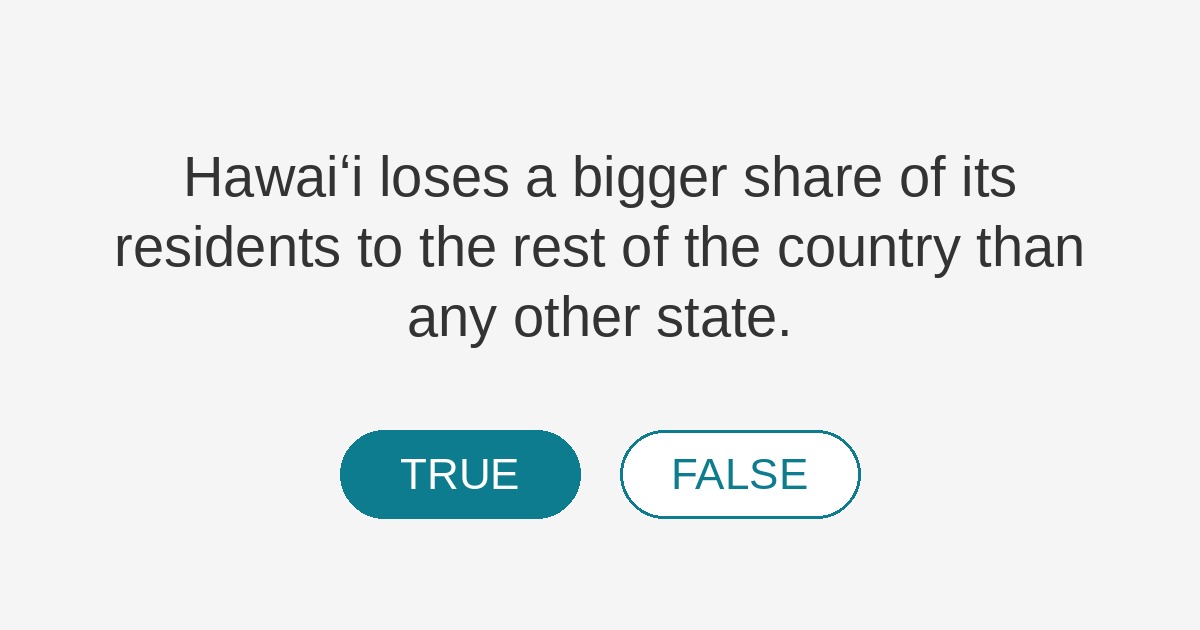
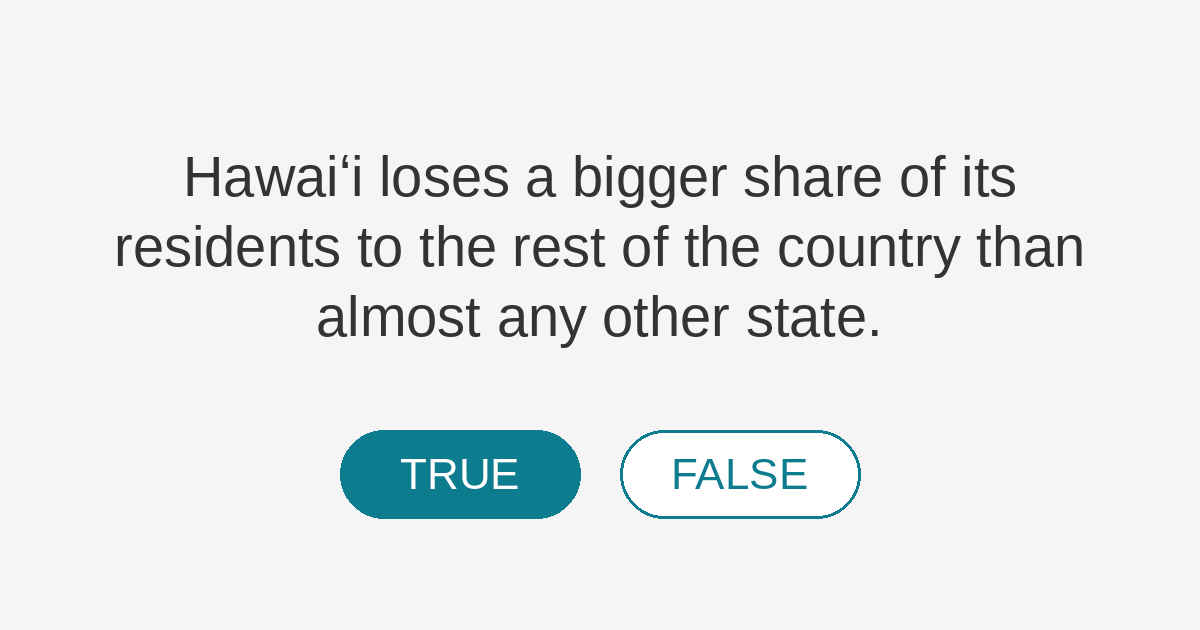
fix(qotd): regenerate the q063 page and share card for the softened claim
The claim edit in the previous commit reached js/questions.js but not the two
surfaces that bake it in. sync-qotd only rewrites answers it owns and reported
"no changes needed", so /q/q063/ kept serving the old superlative, and
generate-og-pages.py skips generate_qotd_assets() whenever --slug is passed, so
the share card was still the June render.

Ran generate-qotd-redirects.js for the pages, and re-rendered just q063's card,
since the card draws the claim only and q062/q065 changed answers alone.

Changed region(s): [[0.2467, 0.4825, 0.74, 0.5429]]

diff --git a/q/q063/index.html b/q/q063/index.html
@@ -13,7 +13,7 @@
   <meta name="twitter:card" content="summary_large_image">
   <meta name="twitter:title" content="You know Hawaiʻi?">
   <meta name="twitter:image" content="https://hawaiidashboard.org/assets/og/q/hawaii-loses-bigger-share-of-residents-to-rest-of-country-than-any-other-state.png">
-  <meta name="description" content="Hawaiʻi loses a bigger share of its residents to the rest of the country than any other state.">
+  <meta name="description" content="Hawaiʻi loses a bigger share of its residents to the rest of the country than almost any other state.">
   <link rel="canonical" href="https://hawaiidashboard.org/q/q063/">
   <script>window.location.replace("/?from_q=q063");</script>
   <meta http-equiv="refresh" content="0;url=https://hawaiidashboard.org/?from_q=q063">
@@ -22,8 +22,8 @@
   <p>Redirecting to <a href="https://hawaiidashboard.org/?from_q=q063">You know Hawaiʻi?</a>&hellip;</p>
   <article style="max-width:640px;margin:2rem auto;padding:0 1rem;font-family:-apple-system,BlinkMacSystemFont,'Segoe UI',sans-serif;color:#333;line-height:1.55;">
     <p style="color:#888;font-size:0.875rem;text-transform:uppercase;letter-spacing:0.05em;margin:0;">You know Hawaiʻi?</p>
-    <p style="margin:0.25rem 0 1rem;font-size:1.25rem;font-weight:600;">Hawaiʻi loses a bigger share of its residents to the rest of the country than any other state.</p>
-    <p><strong>True.</strong> In 2024, Hawaiʻi had a net loss of 64.6 residents per 10,000 to the rest of the country, the largest of any state.</p>
+    <p style="margin:0.25rem 0 1rem;font-size:1.25rem;font-weight:600;">Hawaiʻi loses a bigger share of its residents to the rest of the country than almost any other state.</p>
+    <p><strong>True.</strong> In 2025, Hawaiʻi had a net loss of 61.9 residents per 10,000 to the rest of the country, the 2nd largest of any state.</p>
     <p style="margin-top:1.5rem;"><a href="/r/net_domestic_migration_rate/">See the data &rarr;</a></p>
   </article>
 </body>

diff --git a/q/q065/index.html b/q/q065/index.html
@@ -23,7 +23,7 @@
   <article style="max-width:640px;margin:2rem auto;padding:0 1rem;font-family:-apple-system,BlinkMacSystemFont,'Segoe UI',sans-serif;color:#333;line-height:1.55;">
     <p style="color:#888;font-size:0.875rem;text-transform:uppercase;letter-spacing:0.05em;margin:0;">You know Hawaiʻi?</p>
     <p style="margin:0.25rem 0 1rem;font-size:1.25rem;font-weight:600;">Of all counties, Honolulu is losing the fewest residents to migration.</p>
-    <p><strong>False.</strong> In 2024, Hawaiʻi County was the only county gaining residents at +29.9 per 10K; Honolulu lost 69.1 per 10K.</p>
+    <p><strong>False.</strong> In 2025, Hawaiʻi County was the only county gaining residents at +13.7 per 10K; Honolulu lost 67.5 per 10K.</p>
     <p style="margin-top:1.5rem;"><a href="/c/net_domestic_migration_rate/">See the data &rarr;</a></p>
   </article>
 </body>

diff --git a/q/q062/index.html b/q/q062/index.html
@@ -23,7 +23,7 @@
   <article style="max-width:640px;margin:2rem auto;padding:0 1rem;font-family:-apple-system,BlinkMacSystemFont,'Segoe UI',sans-serif;color:#333;line-height:1.55;">
     <p style="color:#888;font-size:0.875rem;text-transform:uppercase;letter-spacing:0.05em;margin:0;">You know Hawaiʻi?</p>
     <p style="margin:0.25rem 0 1rem;font-size:1.25rem;font-weight:600;">More people move to Hawaiʻi than leave.</p>
-    <p><strong>False.</strong> In 2024, Hawaiʻi was -64.6 per 10K versus the median of 6.2 per 10K.</p>
+    <p><strong>False.</strong> In 2025, Hawaiʻi was -61.9 per 10K versus the median of 9.8 per 10K.</p>
     <p style="margin-top:1.5rem;"><a href="/r/net_domestic_migration_rate/">See the data &rarr;</a></p>
   </article>
 </body>
